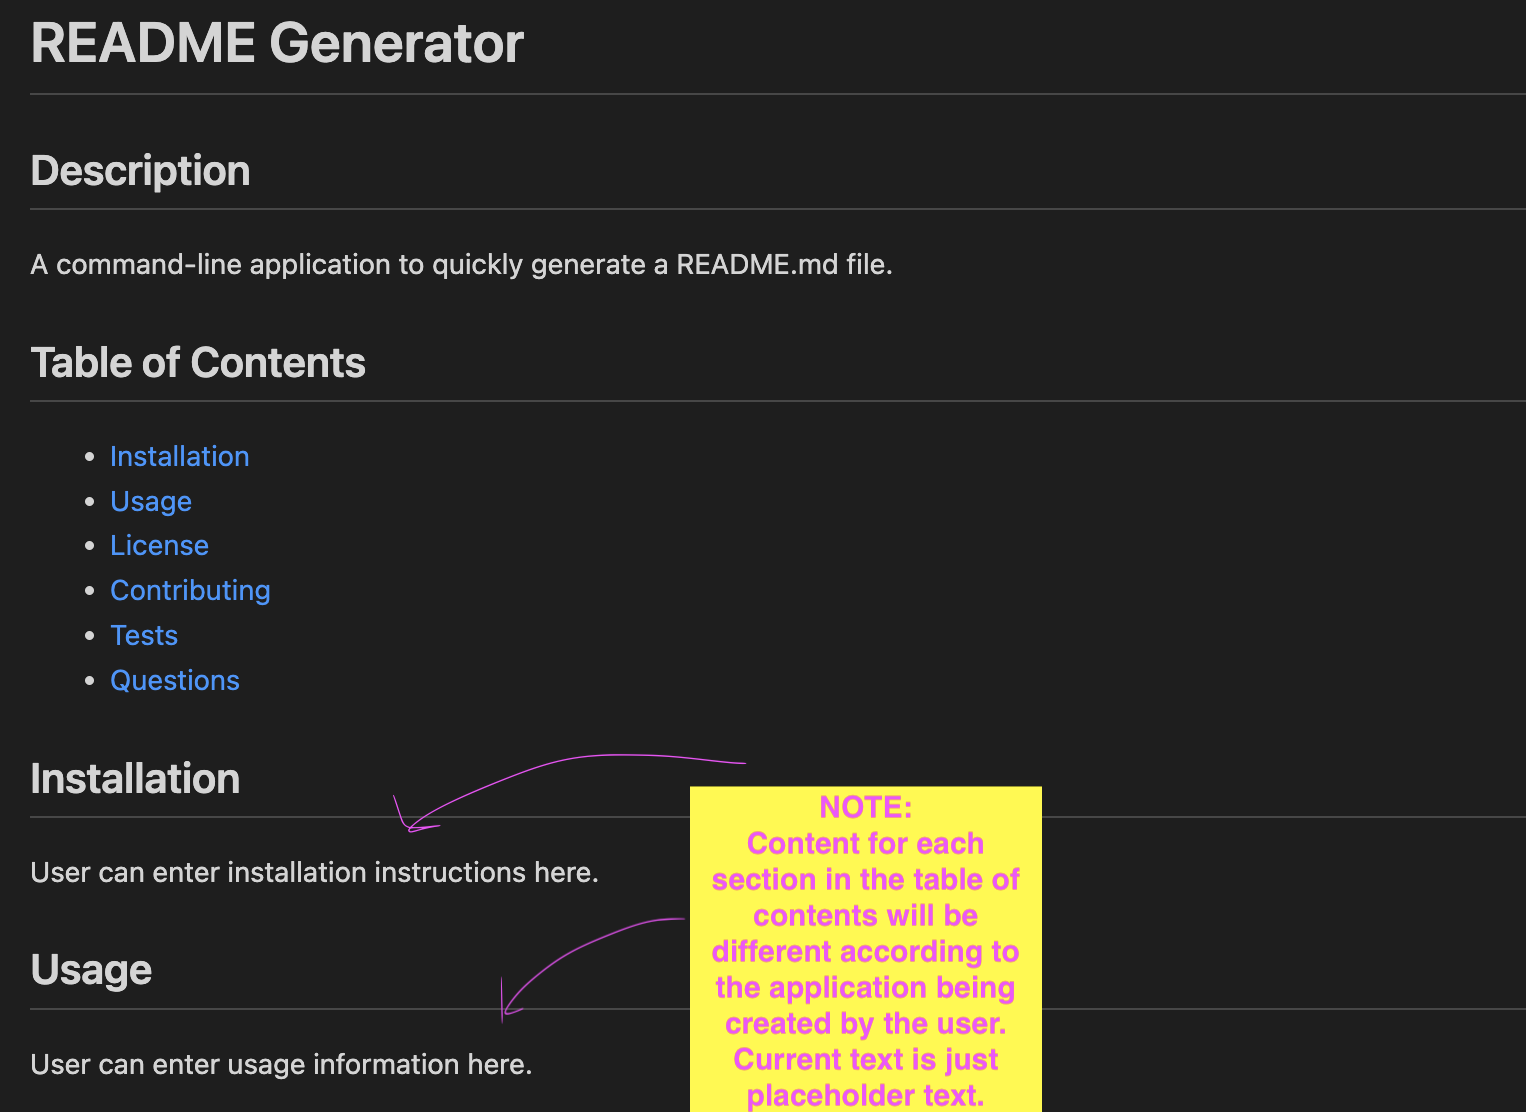
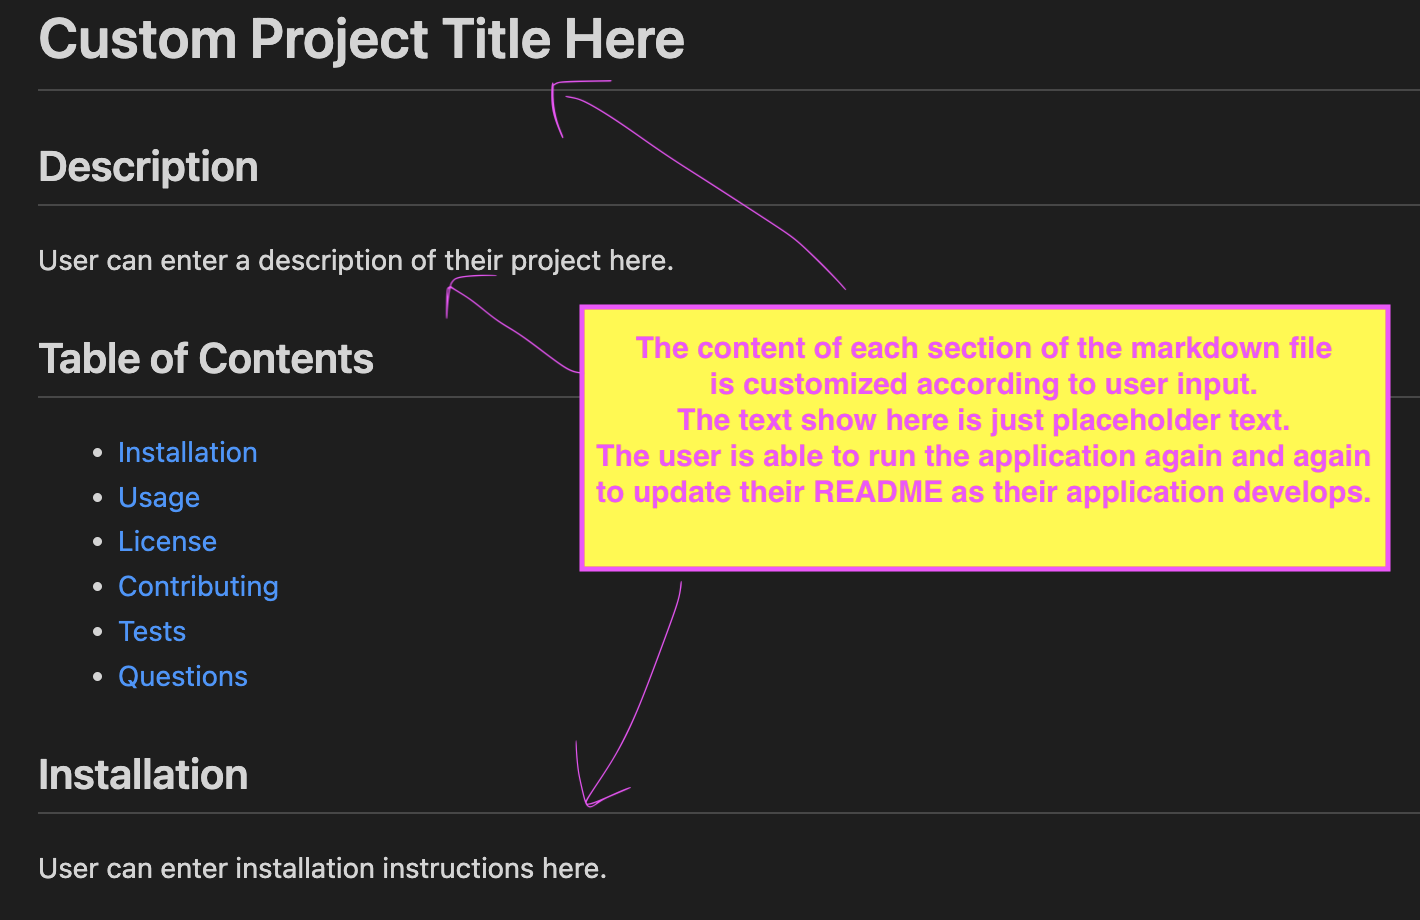
edited image for README, fixed link to license information

diff --git a/js/README.md b/js/README.md
@@ -1,7 +1,7 @@
-# README Generator
+# Project Title 
 
 ## Description
-A command-line application to quickly generate a README.md file.
+User can enter a description of their project here.
 
 ## Table of Contents
 - [Installation](#installation)
@@ -15,7 +15,7 @@ A command-line application to quickly generate a README.md file.
 User can enter installation instructions here.
 
 ## Usage
-User can enter usage information here. 
+User can enter usage information here.
 
 ## License
 ![License](https://img.shields.io/badge/License-MIT%20License-brightgreen)  
@@ -26,9 +26,9 @@ This application is covered under the [MIT License](./LICENSE) license.
 User can enter contribution guidelines here.
 
 ## Tests
-User can enter test instructions here.
+User can enter test intructions here.
 
 ## Questions
-GitHub: [k8sterchi](https://github.com/k8sterchi)  
-Email: myemail@email.com
-Feel free to reach out to me at myemail@email.com with any additional questions.
+GitHub: [Github_Username](https://github.com/Github_Username)  
+Email: email@email.com
+Feel free to reach out to me at email@email.com with any additional questions.

diff --git a/README.md b/README.md
@@ -3,6 +3,8 @@
 ## Description
 A command-line application that quickly and easily generates a README file from a user's input.
 
+[Click Here](https://github.com/k8sterchi/k8s-readme-gener8r) to visit my GitHub repository.
+
 ## Table of Contents
 - [Installation](#installation)
 - [User Story](#user-story)
